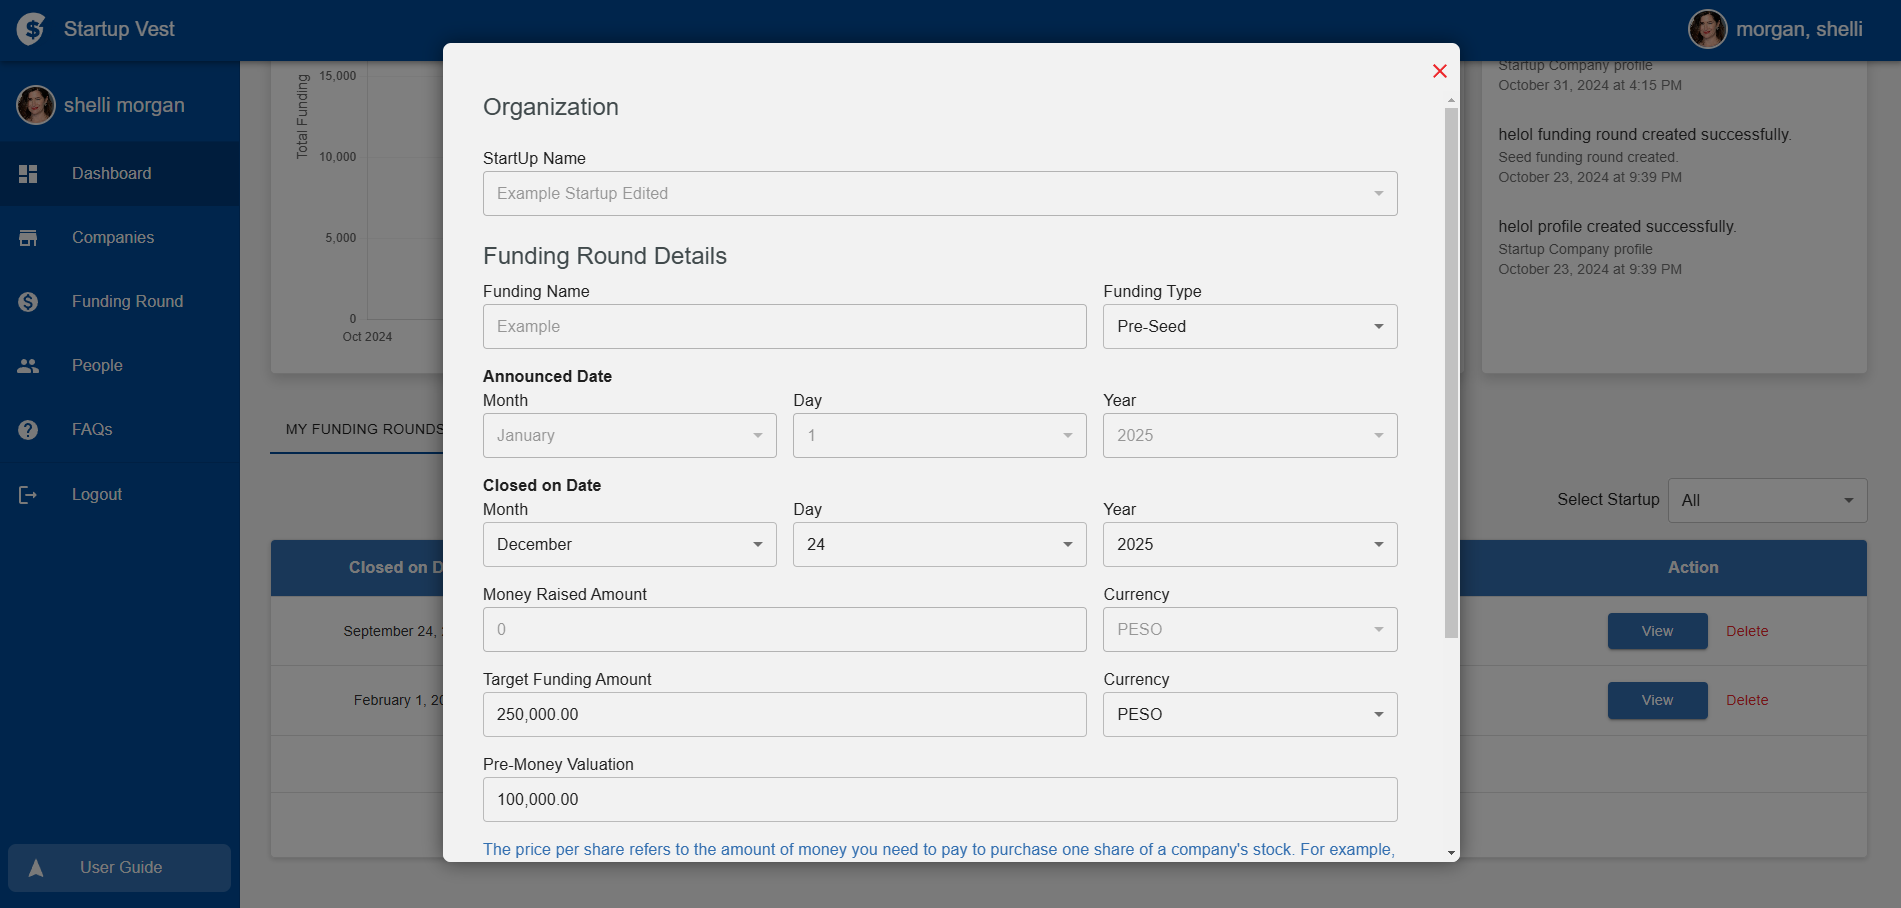
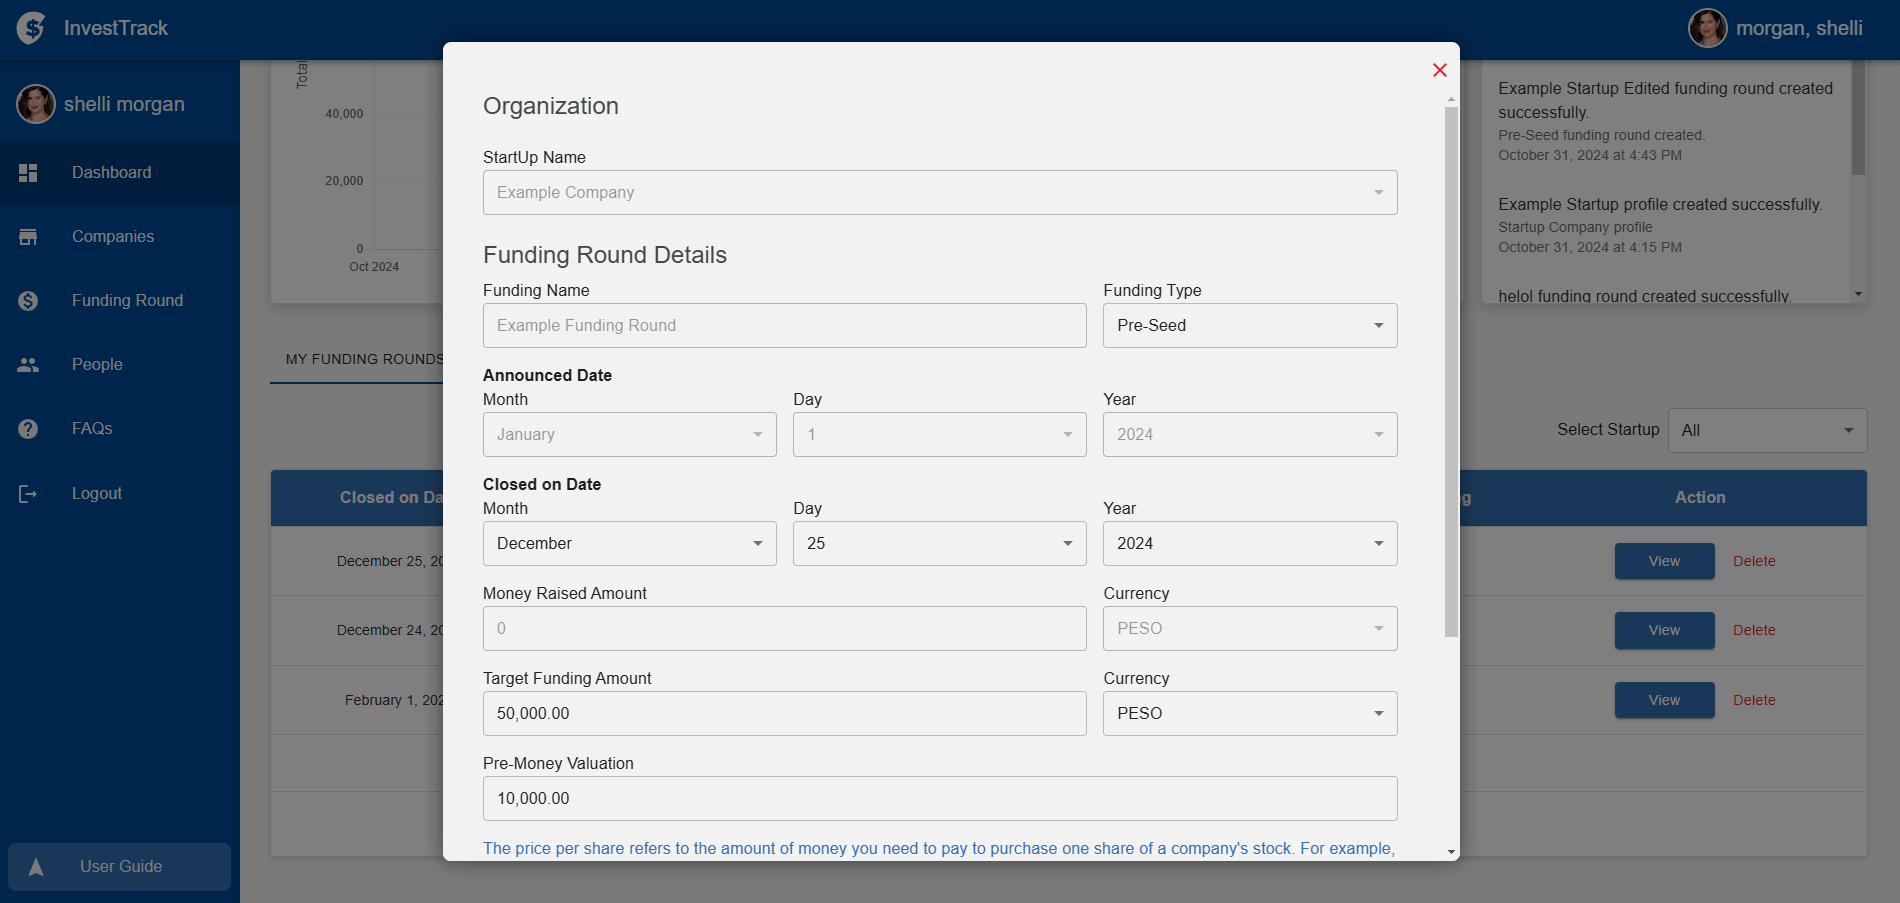
user guide

diff --git a/src/static/startupUserGuideSteps.js b/src/static/startupUserGuideSteps.js
@@ -6,7 +6,7 @@ const startupUserGuideSteps = [
         content: (
             <Box>
                 <Typography variant="body1" textAlign='justify' sx={{ mt: 5}}>
-                    Welcome to Startup Vest! This guide will help you manage your startup profile, funding rounds, and investments. Our platform is designed to provide a comprehensive view of your startup's funding activities and manage investor relations seamlessly.
+                    Welcome to InvestTrack! This guide will help you manage your startup profile, funding rounds, and investments. Our platform is designed to provide a comprehensive view of your startup's funding activities and manage investor relations seamlessly.
                 </Typography>
 
                 <Grid container spacing={2} sx={{ mt: 1 }}>
@@ -57,7 +57,7 @@ const startupUserGuideSteps = [
         content: (
             <Box>
                 <Typography variant="body1" textAlign='justify' sx={{ mt: 5}}>
-                    Managing your startup profile is crucial for attracting investors and presenting your company effectively. Here’s how to create, edit, and delete your startup profile in Startup Vest.
+                    Managing your startup profile is crucial for attracting investors and presenting your company effectively. Here’s how to create, edit, and delete your startup profile in InvestTrack.
                 </Typography>
 
                 <Grid container spacing={2} sx={{ mt: 2 }}>
@@ -75,7 +75,7 @@ const startupUserGuideSteps = [
                             <Typography variant="body1" sx={{ mt: 2,  mb: 1, fontWeight: 'bold' }}>Step 3: Create Profile</Typography>
                             <ul>
                                 <li>Once all necessary fields are filled, click the <strong>Create Profile</strong> button to save your startup profile.</li>
-                                <li>Your newly created profile will now be visible in the My Startups section.</li>
+                                <li>Your newly created profile will now be visible in the <strong>My Startups</strong> section.</li>
                             </ul>
                             <img src="/images/userGuideStartup/tabStartup.png" alt="Overview" style={{ width: '100%', borderRadius: '8px' }} /> 
                     </Grid>
@@ -117,7 +117,7 @@ const startupUserGuideSteps = [
         content: (
             <Box>
                 <Typography variant="body1" textAlign='justify' sx={{ mt: 5}}>
-                    Managing your funding rounds is essential for tracking investment opportunities and maintaining clear communication with investors. Here’s how to create, edit, and delete funding rounds in Startup Vest.
+                    Managing your funding rounds is essential for tracking investment opportunities and maintaining clear communication with investors. Here’s how to create, edit, and delete funding rounds in InvestTrack.
                 </Typography>
 
                 <Grid container spacing={2} sx={{ mt: 1, mb: 1 }}>
@@ -214,7 +214,7 @@ const startupUserGuideSteps = [
         content: (
             <Box>
                 <Typography variant="body1" textAlign='justify' sx={{ mt: 5}}>
-                    Managing investor requests is crucial for maintaining relationships with potential investors and ensuring that you select the right partners for your startup. Here’s how to view and manage investor requests in Startup Vest.
+                    Managing investor requests is crucial for maintaining relationships with potential investors and ensuring that you select the right partners for your startup. Here’s how to view and manage investor requests in InvestTrack.
                 </Typography>
 
                 <Grid container spacing={2} sx={{ mt: 1, mb: 1 }}>

diff --git a/src/static/investorUserGuideSteps.js b/src/static/investorUserGuideSteps.js
@@ -6,7 +6,7 @@ const investorUserGuideSteps = [
         content: (
             <Box>
                 <Typography variant="body1" textAlign='justify' sx={{ mt: 5}}>
-                    Welcome to Startup Vest! This guide will help you navigate the Investor Dashboard, where you can effectively manage your investments and track funding activities. Our platform is designed to provide you with a comprehensive view of your investment portfolio and streamline your interactions with startups seeking funding.
+                    Welcome to InvestTrack! This guide will help you navigate the Investor Dashboard, where you can effectively manage your investments and track funding activities. Our platform is designed to provide you with a comprehensive view of your investment portfolio and streamline your interactions with startups seeking funding.
                 </Typography>
 
                 <Grid container spacing={2} sx={{ mt: 1 }}>
@@ -44,7 +44,7 @@ const investorUserGuideSteps = [
         content: (
             <Box>
                 <Typography variant="body1">
-                    This section will walk you through the process of requesting an investment in a startup through the Startup Vest platform. Follow these steps to make your investment request seamless and straightforward.
+                    This section will walk you through the process of requesting an investment in a startup through the InvestTrack platform. Follow these steps to make your investment request seamless and straightforward.
                 </Typography>
 
                 <Grid container spacing={2} sx={{ mt: 2 }}>

diff --git a/src/Components/People.js b/src/Components/People.js
@@ -212,17 +212,16 @@ export default function Companies() {
               {loading ? (
                 Array.from(new Array(rowsPerPage)).map((_, index) => (
                   <StyledTableRow key={index}>
+                    <StyledTableCell><Skeleton variant="text" width="50%" /></StyledTableCell>
                     <StyledTableCell>
                       <StyledStack direction="row" alignItems="center">
-                        <Skeleton variant="rectangular" width={40} height={40} sx={{ marginRight: 1 }} />
+                        <Skeleton variant="rectangular" width={50} height={50} sx={{ marginRight: 1 }} />
                         <Skeleton variant="text" width="60%" sx={{ ml: 2 }} />
                       </StyledStack>
                     </StyledTableCell>
-
-                    <StyledTableCell><Skeleton variant="text" width="80%" /></StyledTableCell>
                     <StyledTableCell><Skeleton variant="text" width="50%" /></StyledTableCell>
                     <StyledTableCell><Skeleton variant="text" width="50%" /></StyledTableCell>
-                    <StyledTableCell><Skeleton variant="text" width="100%" /></StyledTableCell>
+                    <StyledTableCell><Skeleton variant="text" width="50%" /></StyledTableCell>
                   </StyledTableRow>
                 ))
               ) : (

diff --git a/src/Navbar/Navbar.js b/src/Navbar/Navbar.js
@@ -94,7 +94,7 @@ export default function Navbar() {
       <CssBaseline />
       <AppBar position="fixed" sx={{ zIndex: (theme) => theme.zIndex.drawer + 1, background: '#004A98' }}>
         <Toolbar>
-          <Avatar sx={{ ml: -1, width: 40, height: 40, mr: 1 }} src='images/logo_nav.png' />
+          <Avatar sx={{ ml: -1, width: 40, height: 40, mr: 1 }} src='images/logoV1.png' />
           <Typography variant="h6" noWrap component="div">InvestTrack</Typography>
           <Box sx={{ flexGrow: 1 }} />
           <Avatar sx={{ mr: 1, width: 40, height: 40, border: '2px #F2F2F2 solid' }}>

diff --git a/src/Components/FundingRound.js b/src/Components/FundingRound.js
@@ -252,7 +252,7 @@ export default function FundingRound() {
                   <TableRow key={index}>
                     <StyledTableCell>
                       <StyledStack direction="row" alignItems="center">
-                        <Skeleton variant="rectangular" width={40} height={40} sx={{ borderRadius: '4px' }} />
+                        <Skeleton variant="rectangular" width={50} height={50} sx={{ borderRadius: '4px' }} />
                         <Skeleton variant="text" width="30%" sx={{ ml: 2 }} />
                       </StyledStack>
                     </StyledTableCell>

diff --git a/src/Components/Companies.js b/src/Components/Companies.js
@@ -189,7 +189,7 @@ export default function Companies() {
                   <StyledTableRow key={index}>
                     <StyledTableCell>
                       <StyledStack direction="row" alignItems="center">
-                        <Skeleton variant="rounded" width={40} height={40} />
+                        <Skeleton variant="rounded" width={50} height={50} />
                         <Skeleton variant="text" width="30%" sx={{ ml: 2 }} />
                       </StyledStack>
                     </StyledTableCell>

diff --git a/src/styles/components.js b/src/styles/components.js
@@ -15,8 +15,8 @@ export const StyledPaper = styled(Paper)(({ theme }) => ({
 }));
 
 export const StyledAvatar = styled(Avatar)(({ theme }) => ({
-  width: 40,
-  height: 40,
+  width: 50,
+  height: 50,
   marginRight: theme.spacing(2),
   border: `2px solid #336FB0`,
 }));
